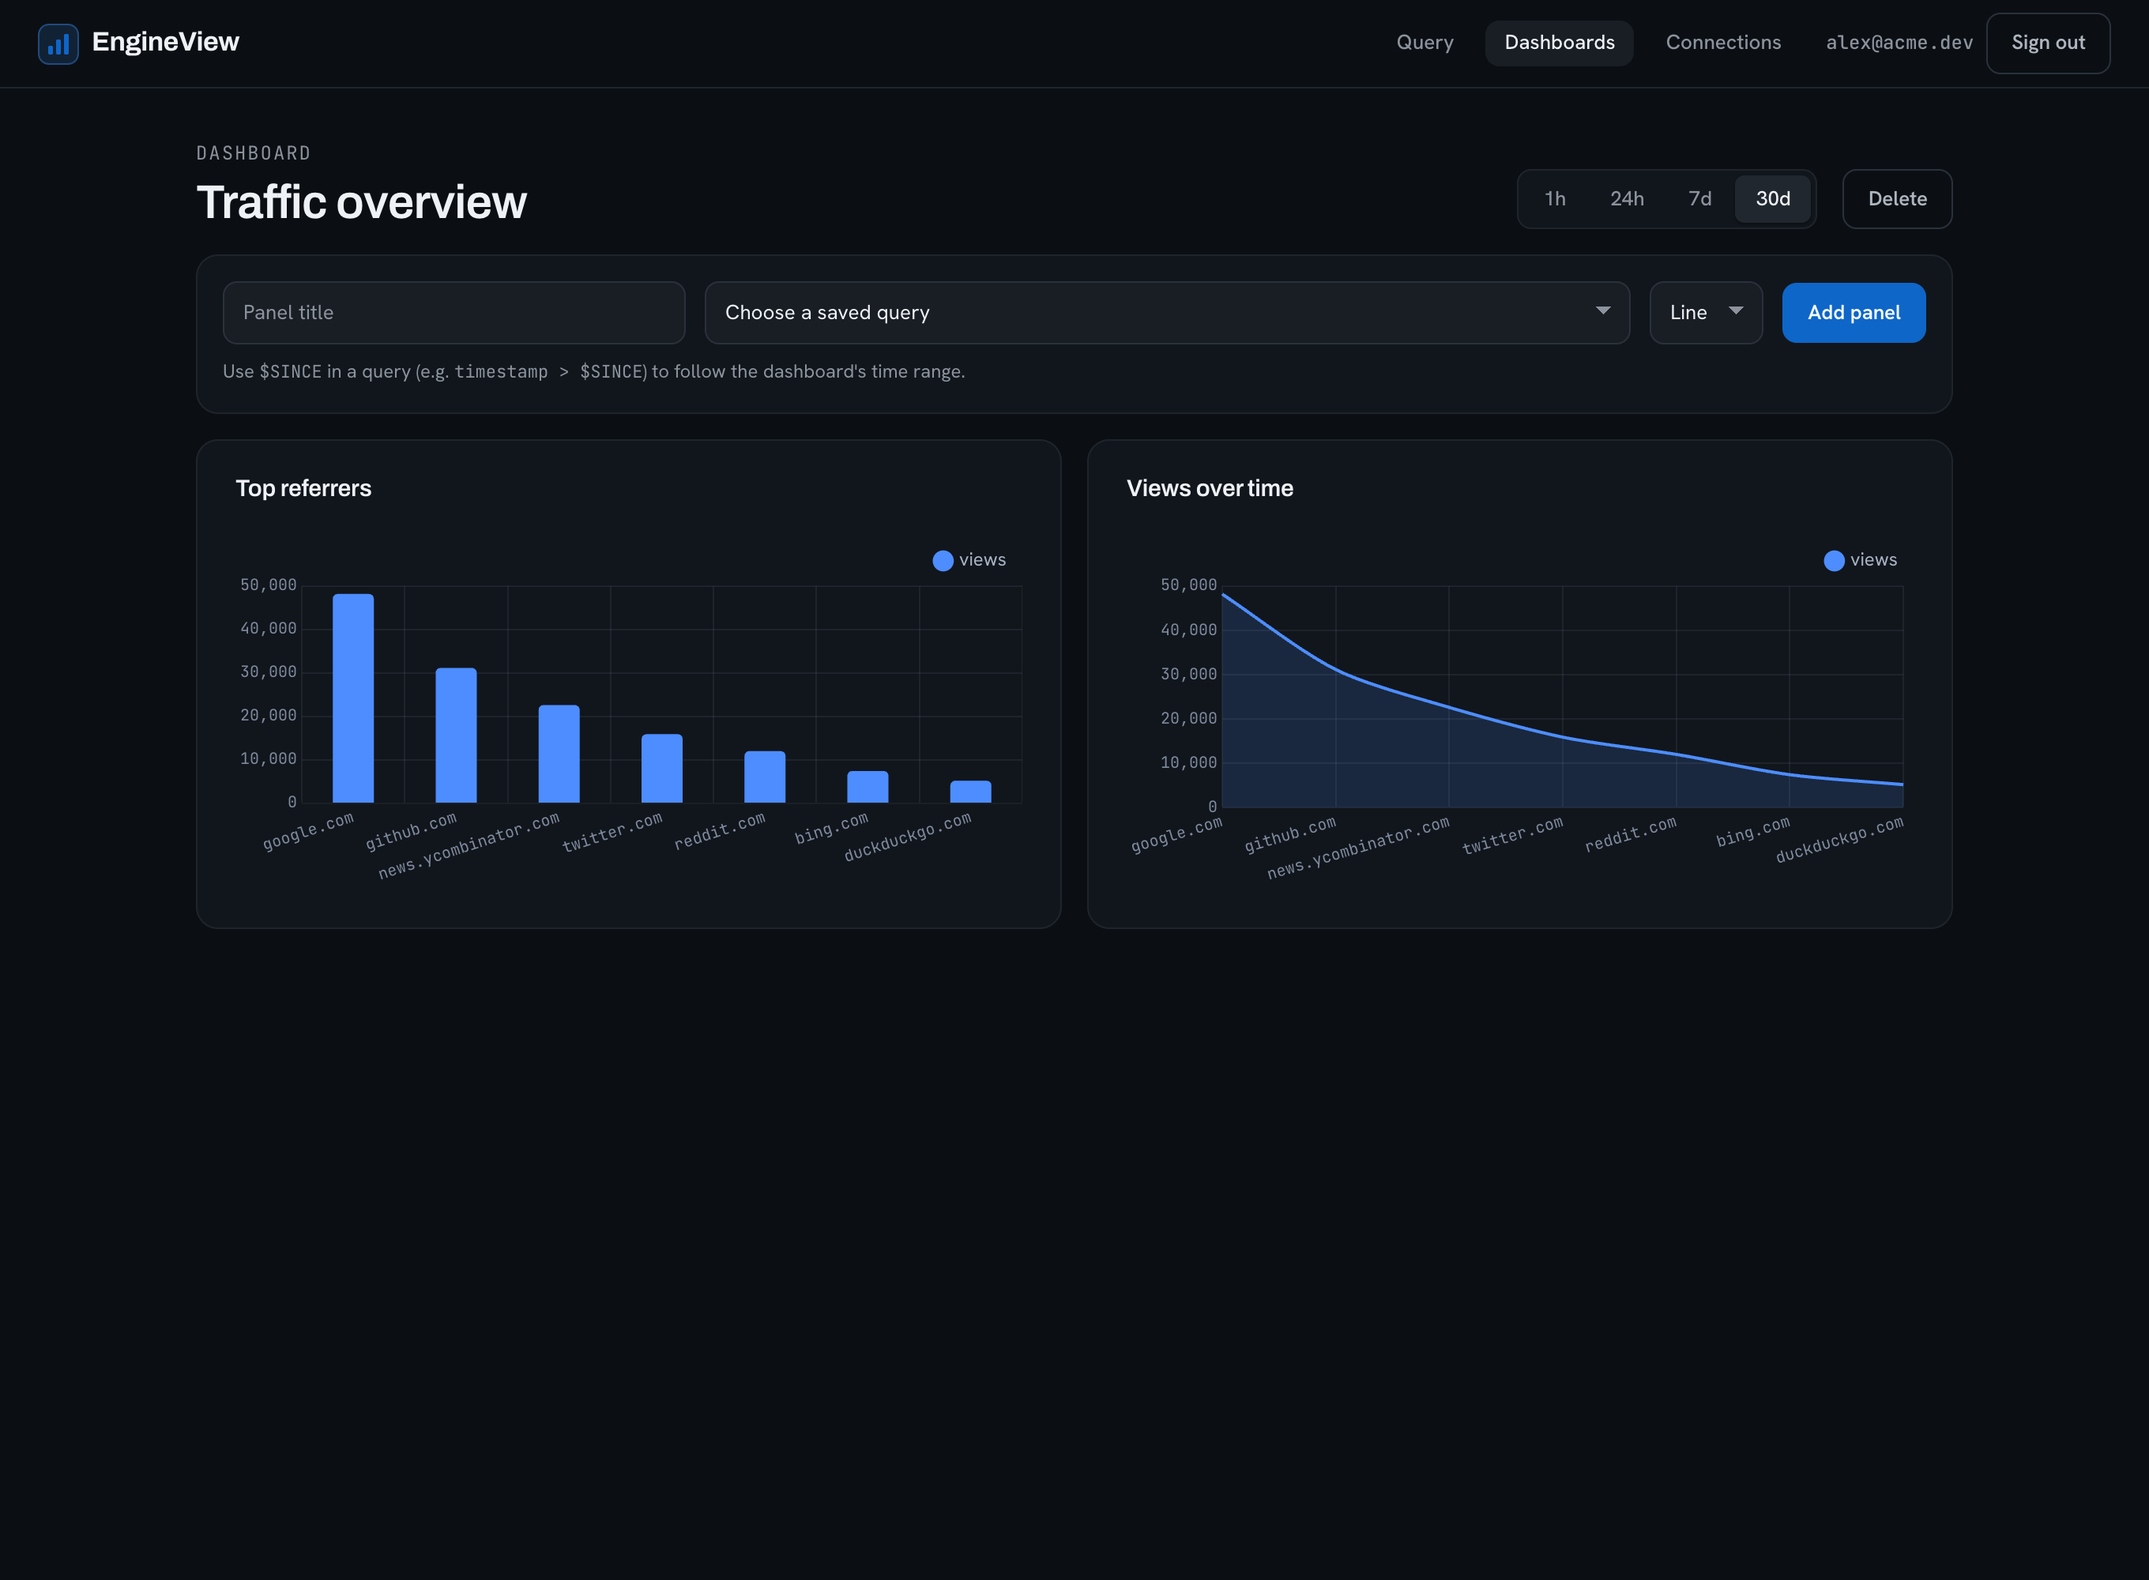
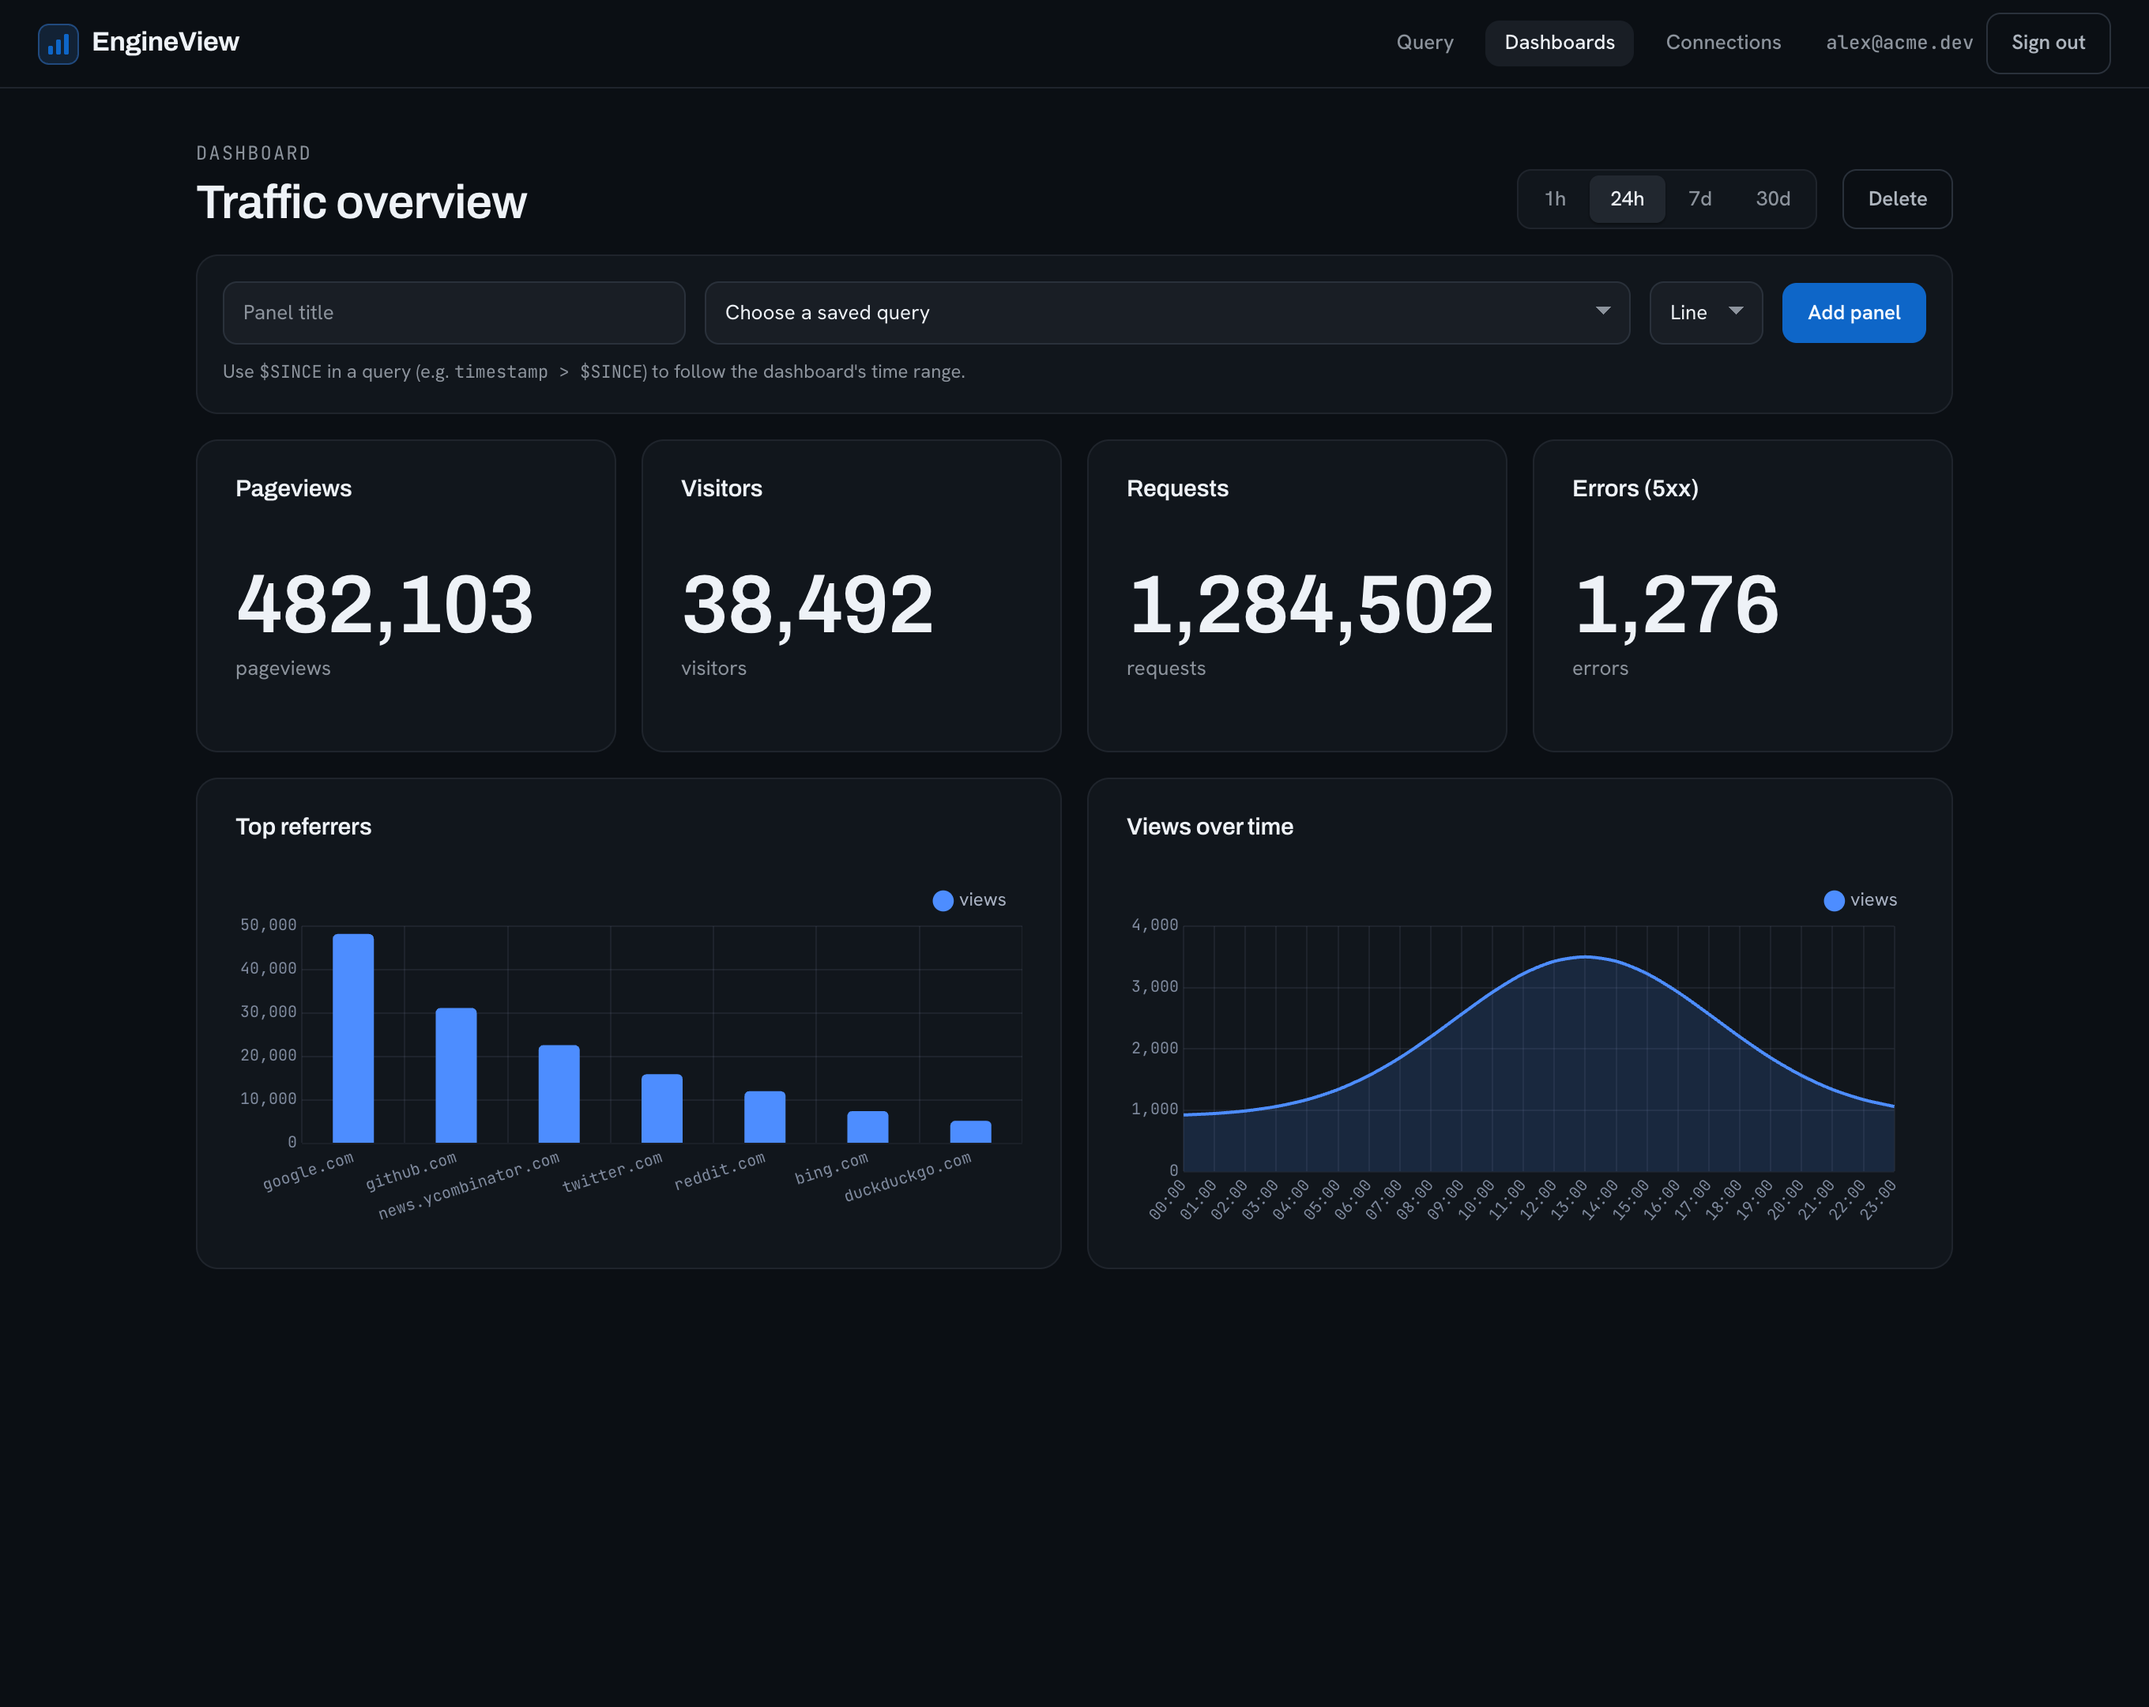
Add stat panels for single-value metrics on dashboards
Add a stat chart type that renders one number (the first numeric column of
the result) with its label, for metrics like total pageviews or error count.
It is selectable in the runner and as a dashboard panel; the runner hides the
axis and series controls when stat is chosen.

diff --git a/app/components/ChartView.vue b/app/components/ChartView.vue
@@ -12,7 +12,7 @@ import {
   LinearScale,
   Filler,
 } from "chart.js";
-import { buildChartData, type ChartType } from "~/lib/chart";
+import { buildChartData, statValue, type ChartType } from "~/lib/chart";
 
 ChartJS.register(
   Title,
@@ -138,14 +138,53 @@ const summary = computed(() => {
   }
   return `${props.type} chart of ${props.yColumns.join(", ")} by ${props.xColumn}, ${props.rows.length} points`;
 });
+
+// Single-value "stat" tile: one number, the column name as its label.
+const statResult = computed(() => statValue(props.rows));
+const STAT_FMT = new Intl.NumberFormat(undefined, { maximumFractionDigits: 2 });
+const formattedStat = computed(() => {
+  const v = statResult.value.value;
+  if (v === null) return "No data";
+  return typeof v === "number" ? STAT_FMT.format(v) : v;
+});
 </script>
 
 <template>
-  <div :style="{ height: `${height}px` }" role="img" :aria-label="summary">
-    <p v-if="rows.length === 0 || !xColumn || yColumns.length === 0" class="muted">
+  <div
+    :style="{ height: `${height}px` }"
+    :role="type === 'stat' ? undefined : 'img'"
+    :aria-label="type === 'stat' ? undefined : summary"
+  >
+    <div v-if="type === 'stat'" class="stat">
+      <span class="stat-value">{{ formattedStat }}</span>
+      <span v-if="statResult.label" class="stat-label">{{ statResult.label }}</span>
+    </div>
+    <p v-else-if="rows.length === 0 || !xColumn || yColumns.length === 0" class="muted">
       Nothing to chart yet.
     </p>
     <Bar v-else-if="type === 'bar'" :data="chartData" :options="options" />
     <Line v-else :data="chartData" :options="options" />
   </div>
 </template>
+
+<style scoped>
+.stat {
+  height: 100%;
+  display: grid;
+  place-content: center start;
+  gap: var(--space-2xs);
+}
+.stat-value {
+  font-family: var(--font-display);
+  font-size: clamp(2.25rem, 4vw, 3.25rem);
+  font-weight: 600;
+  line-height: 1;
+  letter-spacing: -0.02em;
+  font-variant-numeric: tabular-nums;
+  color: var(--text);
+}
+.stat-label {
+  font-size: var(--text-sm);
+  color: var(--text-3);
+}
+</style>

diff --git a/app/pages/query.vue b/app/pages/query.vue
@@ -239,28 +239,31 @@ async function remove(id: string) {
                   <option value="line">Line</option>
                   <option value="area">Area</option>
                   <option value="bar">Bar</option>
+                  <option value="stat">Stat</option>
                 </select>
               </label>
-              <label style="flex: 0 0 auto">
-                X axis
-                <select v-model="xColumn">
-                  <option v-for="c in resultColumns" :key="c" :value="c">{{ c }}</option>
-                </select>
-              </label>
-              <span class="muted">Series:</span>
-              <label
-                v-for="c in resultColumns.filter((col) => col !== xColumn)"
-                :key="c"
-                style="flex-direction: row; align-items: center; gap: 6px"
-              >
-                <input
-                  type="checkbox"
-                  style="width: auto"
-                  :checked="yColumns.includes(c)"
-                  @change="toggleY(c)"
-                />
-                {{ c }}
-              </label>
+              <template v-if="chartType !== 'stat'">
+                <label style="flex: 0 0 auto">
+                  X axis
+                  <select v-model="xColumn">
+                    <option v-for="c in resultColumns" :key="c" :value="c">{{ c }}</option>
+                  </select>
+                </label>
+                <span class="muted">Series:</span>
+                <label
+                  v-for="c in resultColumns.filter((col) => col !== xColumn)"
+                  :key="c"
+                  style="flex-direction: row; align-items: center; gap: 6px"
+                >
+                  <input
+                    type="checkbox"
+                    style="width: auto"
+                    :checked="yColumns.includes(c)"
+                    @change="toggleY(c)"
+                  />
+                  {{ c }}
+                </label>
+              </template>
             </div>
             <ClientOnly>
               <LazyChartView

diff --git a/test/chart.test.ts b/test/chart.test.ts
@@ -1,5 +1,5 @@
 import { describe, it, expect } from "vitest";
-import { buildChartData, defaultAxes } from "../app/lib/chart";
+import { buildChartData, defaultAxes, statValue } from "../app/lib/chart";
 
 describe("buildChartData", () => {
   const rows = [
@@ -59,5 +59,30 @@ describe("defaultAxes", () => {
 
   it("handles an empty result", () => {
     expect(defaultAxes([], [])).toEqual({ xColumn: "", yColumns: [] });
+  });
+});
+
+describe("statValue", () => {
+  it("takes the first numeric column of the first row", () => {
+    expect(statValue([{ views: 3000 }])).toEqual({ value: 3000, label: "views" });
+  });
+
+  it("skips leading non-numeric columns", () => {
+    expect(statValue([{ label: "7 days", total: 48210 }])).toEqual({
+      value: 48210,
+      label: "total",
+    });
+  });
+
+  it("coerces numeric strings", () => {
+    expect(statValue([{ count: "1234" }])).toEqual({ value: 1234, label: "count" });
+  });
+
+  it("falls back to the first column when nothing is numeric", () => {
+    expect(statValue([{ status: "ok" }])).toEqual({ value: "ok", label: "status" });
+  });
+
+  it("returns null for an empty result", () => {
+    expect(statValue([])).toEqual({ value: null, label: "" });
   });
 });

diff --git a/app/lib/chart.ts b/app/lib/chart.ts
@@ -2,7 +2,7 @@
 // any framework so it can be unit-tested and reused by the runner and dashboard
 // panels.
 
-export type ChartType = "line" | "bar" | "area";
+export type ChartType = "line" | "bar" | "area" | "stat";
 
 export interface ChartSeries {
   labels: (string | number)[];
@@ -53,4 +53,20 @@ export function defaultAxes(
   // Fall back to any non-x column so a chart is still possible without type info.
   if (yColumns.length === 0) yColumns = columns.slice(1).map((c) => c.name);
   return { xColumn, yColumns };
+}
+
+// For a single-value "stat" tile: take the first numeric column of the first
+// row (the query is expected to return one aggregate row, e.g.
+// `SELECT sum(_sample_interval) AS views ...`). Falls back to the first column.
+export function statValue(rows: Record<string, unknown>[]): {
+  value: number | string | null;
+  label: string;
+} {
+  if (rows.length === 0) return { value: null, label: "" };
+  const row = rows[0]!;
+  const keys = Object.keys(row);
+  const col = keys.find((k) => toNumber(row[k]) !== null) ?? keys[0] ?? "";
+  const raw = row[col];
+  const n = toNumber(raw);
+  return { value: n ?? (raw == null ? null : String(raw)), label: col };
 }

diff --git a/app/pages/dashboards/[id].vue b/app/pages/dashboards/[id].vue
@@ -106,6 +106,7 @@ async function removeDashboard() {
           <option value="line">Line</option>
           <option value="area">Area</option>
           <option value="bar">Bar</option>
+          <option value="stat">Stat</option>
         </select>
         <button type="submit" :disabled="adding">{{ adding ? "Adding…" : "Add panel" }}</button>
       </form>

diff --git a/server/utils/schemas.ts b/server/utils/schemas.ts
@@ -38,7 +38,7 @@ export const dashboardUpdateSchema = z.object({
   timeRange: z.string().trim().optional(),
 });
 
-export const chartTypeSchema = z.enum(["line", "area", "bar"]);
+export const chartTypeSchema = z.enum(["line", "area", "bar", "stat"]);
 
 export const panelCreateSchema = z.object({
   title: z.string().trim().min(1, "title is required"),

diff --git a/README.md b/README.md
@@ -16,10 +16,10 @@ Write SQL against your datasets and switch between a table and a chart:
 
 ![EngineView query runner showing a SQL query and an area chart of requests, cached and errors over a day](docs/screenshots/query-runner.png)
 
-Save the queries you care about and arrange them as panels on a dashboard with a
-shared time range:
+Arrange saved queries as stat tiles and charts on a dashboard with a shared time
+range:
 
-![EngineView dashboard with a top-referrers bar chart and a views-over-time line chart](docs/screenshots/dashboard.png)
+![EngineView dashboard showing pageviews, visitors, requests and error stat tiles above a top-referrers bar chart and a views-over-time area chart](docs/screenshots/dashboard.png)
 
 ## Status
 
@@ -44,8 +44,9 @@ runner with charts, and multi-panel dashboards are all in place.
   Analytics Engine SQL API, and returns the rows. The token never leaves the
   server.
 - Saved queries and dashboards are stored in Postgres, scoped to each user.
-- A result can be charted (line, area or bar). Saved queries become dashboard
-  panels, laid out in a grid with a shared time range. A query can use the
+- A result can be charted (line, area or bar) or shown as a single stat tile.
+  Saved queries become dashboard panels, laid out in a grid with a shared time
+  range. A query can use the
   `$SINCE` token (e.g. `timestamp > $SINCE`), which expands to the dashboard's
   selected range.
 
